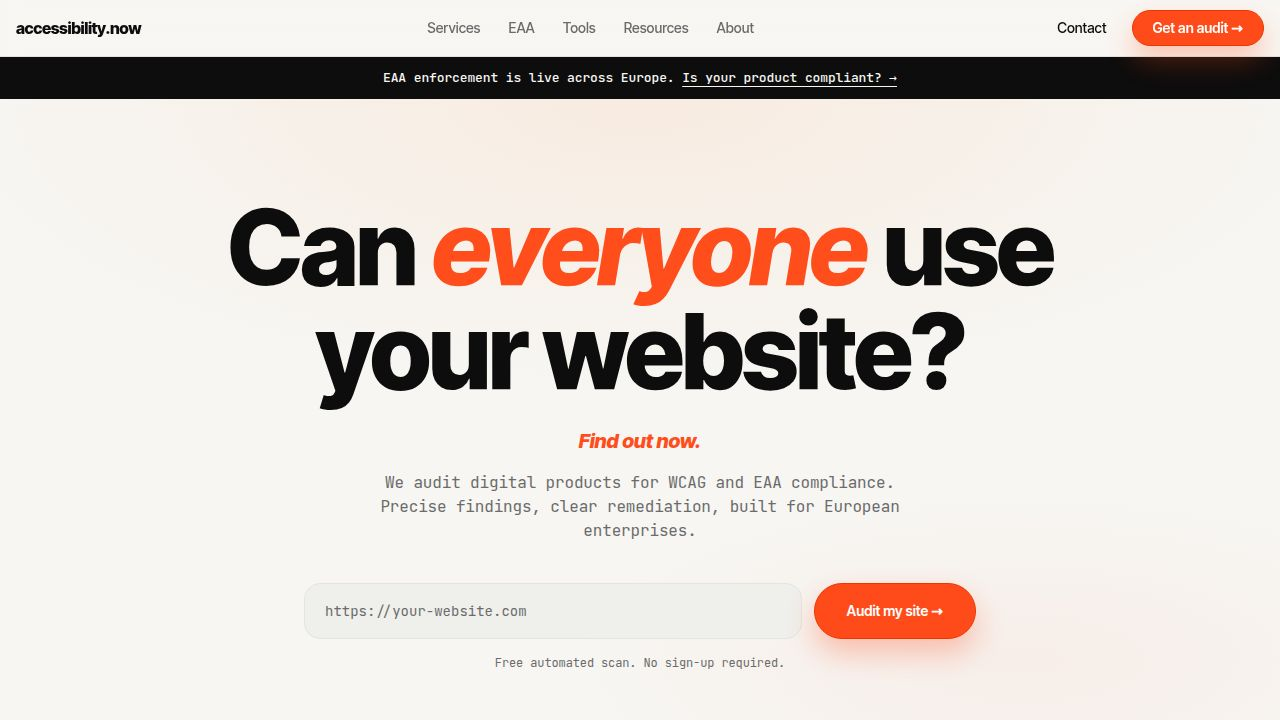
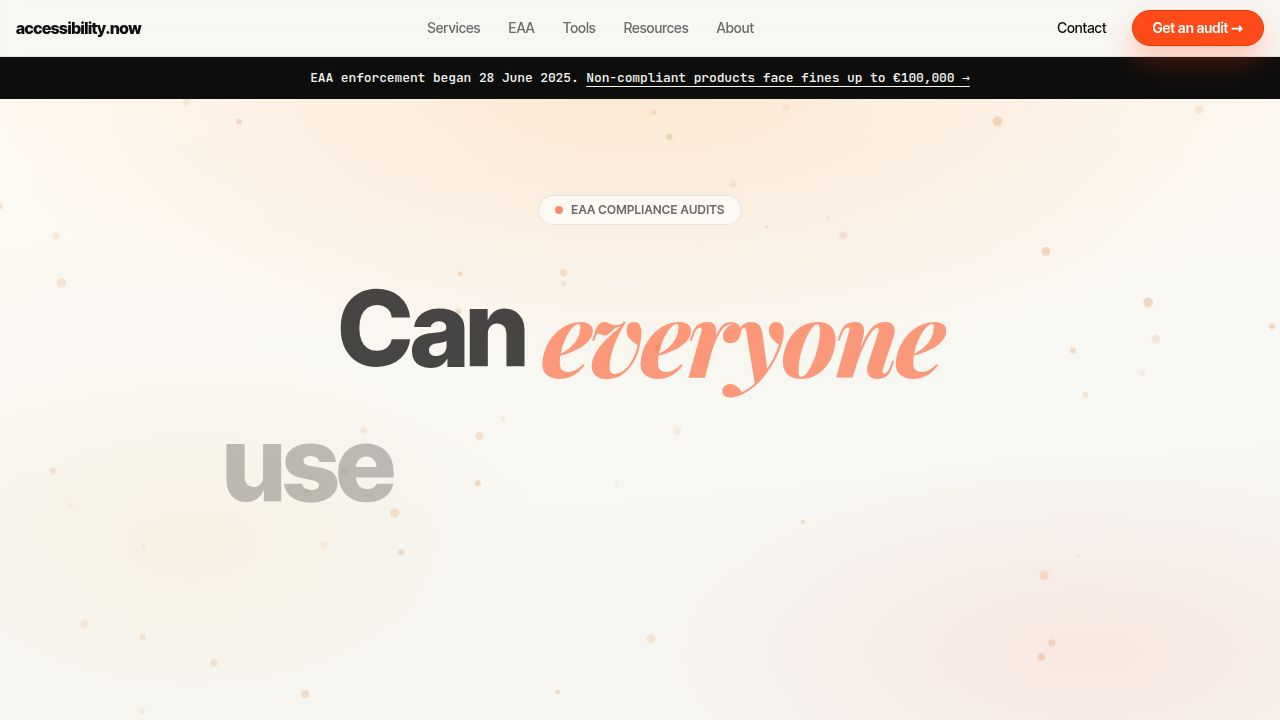
Apply animated design language to service detail pages (Task #17)
Applied the same GSAP animation pattern used on top-level pages (Home, About,
Services index, EAA, Contact) to the three service detail sub-pages:
- artifacts/accessibility-now/src/pages/services/audits.tsx
- artifacts/accessibility-now/src/pages/services/remediation.tsx
- artifacts/accessibility-now/src/pages/services/monitoring.tsx

Changes per page:
- Added imports: useEffect, useRef (React), gsap, useSectionReveal hook
- Created three useSectionReveal refs (heroRef, contentRef, ctaRef) — the
  content section ref uses { staggerSelector: ".reveal-child" }
- Added pageRef + useEffect for GSAP btn-gsap button hover scale animations
- Changed middle content section background from bg-white to warm-section
- Added reveal-child class to each grid card so they stagger-animate in on scroll
- Added reveal-body class to hero paragraphs for fade-up animation
- Added btn-gsap class to CTA buttons for hover scale effect
- Attached refs to all three section elements

No deviations from the task. All pages now match the design language of
top-level pages: hero-gradient backgrounds, heading-accent Playfair Display
italic spans, warm-section middle sections, and useSectionReveal ScrollTrigger
hooks on every section.

Replit-Task-Id: 18267751-8e65-40e4-8267-87cdaa64f6e3

diff --git a/artifacts/accessibility-now/src/pages/services/audits.tsx b/artifacts/accessibility-now/src/pages/services/audits.tsx
@@ -1,6 +1,9 @@
+import { useEffect, useRef } from "react";
+import gsap from "gsap";
 import { Link } from "wouter";
 import { Button } from "@/components/ui/button";
 import { CheckCircle2 } from "lucide-react";
+import { useSectionReveal } from "@/hooks/use-section-reveal";
 
 const included = [
   {
@@ -30,29 +33,49 @@ const included = [
 ];
 
 export default function Audits() {
+  const heroRef = useSectionReveal<HTMLElement>();
+  const includedRef = useSectionReveal<HTMLElement>({ staggerSelector: ".reveal-child" });
+  const ctaRef = useSectionReveal<HTMLElement>();
+  const pageRef = useRef<HTMLDivElement>(null);
+
+  useEffect(() => {
+    const el = pageRef.current;
+    if (!el) return;
+    const buttons = el.querySelectorAll<HTMLElement>(".btn-gsap");
+    const cleanups: (() => void)[] = [];
+    buttons.forEach((btn) => {
+      const enter = () => gsap.to(btn, { scale: 1.04, duration: 0.18, ease: "power2.out" });
+      const leave = () => gsap.to(btn, { scale: 1, duration: 0.18, ease: "power2.out" });
+      btn.addEventListener("mouseenter", enter);
+      btn.addEventListener("mouseleave", leave);
+      cleanups.push(() => { btn.removeEventListener("mouseenter", enter); btn.removeEventListener("mouseleave", leave); });
+    });
+    return () => cleanups.forEach((fn) => fn());
+  }, []);
+
   return (
-    <div className="flex flex-col w-full">
-      <section className="hero-gradient pt-24 pb-20 px-4">
+    <div ref={pageRef} className="flex flex-col w-full">
+      <section ref={heroRef} className="hero-gradient pt-24 pb-20 px-4">
         <div className="container mx-auto max-w-4xl">
           <h1 className="text-display font-extrabold tracking-tight mb-6">
             Find every<br />
             <span className="heading-accent">violation.</span>
           </h1>
-          <p className="text-muted-foreground text-base max-w-xl">
+          <p className="text-muted-foreground text-base max-w-xl reveal-body">
             Automated scanning combined with rigorous manual WCAG 2.1/2.2 AA testing by
             accessibility engineers using real screen readers and keyboard-only navigation.
           </p>
         </div>
       </section>
 
-      <section className="py-20 px-4 bg-white">
+      <section ref={includedRef} className="py-20 px-4 warm-section">
         <div className="container mx-auto max-w-4xl">
           <h2 className="text-display-md font-extrabold mb-10">
             What's <span className="heading-accent">included.</span>
           </h2>
           <div className="grid grid-cols-1 md:grid-cols-2 gap-4">
             {included.map(({ title, body }) => (
-              <div key={title} className="flex items-start gap-4 p-5 rounded-xl border bg-background">
+              <div key={title} className="reveal-child flex items-start gap-4 p-5 rounded-xl border bg-background">
                 <CheckCircle2 className="w-5 h-5 text-primary mt-0.5 shrink-0" />
                 <div>
                   <h3 className="font-bold text-sm font-sans mb-1">{title}</h3>
@@ -64,20 +87,20 @@ export default function Audits() {
         </div>
       </section>
 
-      <section className="py-24 px-4 hero-gradient text-center">
+      <section ref={ctaRef} className="py-24 px-4 hero-gradient text-center">
         <div className="container mx-auto max-w-2xl">
           <h2 className="text-display-md font-extrabold mb-5">
             Ready to uncover your<br />
             <span className="heading-accent">accessibility gaps?</span>
           </h2>
-          <p className="text-muted-foreground mb-10">
+          <p className="text-muted-foreground mb-10 reveal-body">
             Start with a free automated scan, then escalate to a full manual audit for legal sign-off.
           </p>
           <div className="flex flex-wrap justify-center gap-3">
-            <Button asChild className="h-12 px-8 text-sm font-semibold">
+            <Button asChild className="btn-gsap h-12 px-8 text-sm font-semibold">
               <Link href="/contact">Get your audit</Link>
             </Button>
-            <Button asChild variant="outline" className="h-12 px-8 text-sm [box-shadow:none]">
+            <Button asChild variant="outline" className="btn-gsap h-12 px-8 text-sm [box-shadow:none]">
               <Link href="/">Free site scan →</Link>
             </Button>
           </div>

diff --git a/artifacts/accessibility-now/src/pages/services/monitoring.tsx b/artifacts/accessibility-now/src/pages/services/monitoring.tsx
@@ -1,6 +1,9 @@
+import { useEffect, useRef } from "react";
+import gsap from "gsap";
 import { Link } from "wouter";
 import { Button } from "@/components/ui/button";
 import { CheckCircle2 } from "lucide-react";
+import { useSectionReveal } from "@/hooks/use-section-reveal";
 
 const benefits = [
   {
@@ -22,29 +25,49 @@ const benefits = [
 ];
 
 export default function Monitoring() {
+  const heroRef = useSectionReveal<HTMLElement>();
+  const benefitsRef = useSectionReveal<HTMLElement>({ staggerSelector: ".reveal-child" });
+  const ctaRef = useSectionReveal<HTMLElement>();
+  const pageRef = useRef<HTMLDivElement>(null);
+
+  useEffect(() => {
+    const el = pageRef.current;
+    if (!el) return;
+    const buttons = el.querySelectorAll<HTMLElement>(".btn-gsap");
+    const cleanups: (() => void)[] = [];
+    buttons.forEach((btn) => {
+      const enter = () => gsap.to(btn, { scale: 1.04, duration: 0.18, ease: "power2.out" });
+      const leave = () => gsap.to(btn, { scale: 1, duration: 0.18, ease: "power2.out" });
+      btn.addEventListener("mouseenter", enter);
+      btn.addEventListener("mouseleave", leave);
+      cleanups.push(() => { btn.removeEventListener("mouseenter", enter); btn.removeEventListener("mouseleave", leave); });
+    });
+    return () => cleanups.forEach((fn) => fn());
+  }, []);
+
   return (
-    <div className="flex flex-col w-full">
-      <section className="hero-gradient pt-24 pb-20 px-4">
+    <div ref={pageRef} className="flex flex-col w-full">
+      <section ref={heroRef} className="hero-gradient pt-24 pb-20 px-4">
         <div className="container mx-auto max-w-4xl">
           <h1 className="text-display font-extrabold tracking-tight mb-6">
             Stay compliant<br />
             <span className="heading-accent">as you ship.</span>
           </h1>
-          <p className="text-muted-foreground text-base max-w-xl">
+          <p className="text-muted-foreground text-base max-w-xl reveal-body">
             Accessibility is a continuous process. We ensure your application remains compliant
             with every new feature — automated re-scans, regression alerts, and a compliance dashboard.
           </p>
         </div>
       </section>
 
-      <section className="py-20 px-4 bg-white">
+      <section ref={benefitsRef} className="py-20 px-4 warm-section">
         <div className="container mx-auto max-w-4xl">
           <h2 className="text-display-md font-extrabold mb-10">
             Retainer <span className="heading-accent">benefits.</span>
           </h2>
           <div className="grid grid-cols-1 md:grid-cols-2 gap-4">
             {benefits.map(({ title, body }) => (
-              <div key={title} className="flex items-start gap-4 p-5 rounded-xl border bg-background">
+              <div key={title} className="reveal-child flex items-start gap-4 p-5 rounded-xl border bg-background">
                 <CheckCircle2 className="w-5 h-5 text-primary mt-0.5 shrink-0" />
                 <div>
                   <h3 className="font-bold text-sm font-sans mb-1">{title}</h3>
@@ -56,16 +79,16 @@ export default function Monitoring() {
         </div>
       </section>
 
-      <section className="py-24 px-4 hero-gradient text-center">
+      <section ref={ctaRef} className="py-24 px-4 hero-gradient text-center">
         <div className="container mx-auto max-w-2xl">
           <h2 className="text-display-md font-extrabold mb-5">
             Protect your<br />
             <span className="heading-accent">compliance investment.</span>
           </h2>
-          <p className="text-muted-foreground mb-10">
+          <p className="text-muted-foreground mb-10 reveal-body">
             One regression can undo months of work. A monitoring retainer keeps you continuously covered.
           </p>
-          <Button asChild className="h-12 px-8 text-sm font-bold">
+          <Button asChild className="btn-gsap h-12 px-8 text-sm font-bold">
             <Link href="/contact">Start a retainer</Link>
           </Button>
         </div>

diff --git a/artifacts/accessibility-now/src/pages/services/remediation.tsx b/artifacts/accessibility-now/src/pages/services/remediation.tsx
@@ -1,6 +1,9 @@
+import { useEffect, useRef } from "react";
+import gsap from "gsap";
 import { Link } from "wouter";
 import { Button } from "@/components/ui/button";
 import { CheckCircle2 } from "lucide-react";
+import { useSectionReveal } from "@/hooks/use-section-reveal";
 
 const howWeWork = [
   {
@@ -22,29 +25,49 @@ const howWeWork = [
 ];
 
 export default function Remediation() {
+  const heroRef = useSectionReveal<HTMLElement>();
+  const howWeWorkRef = useSectionReveal<HTMLElement>({ staggerSelector: ".reveal-child" });
+  const ctaRef = useSectionReveal<HTMLElement>();
+  const pageRef = useRef<HTMLDivElement>(null);
+
+  useEffect(() => {
+    const el = pageRef.current;
+    if (!el) return;
+    const buttons = el.querySelectorAll<HTMLElement>(".btn-gsap");
+    const cleanups: (() => void)[] = [];
+    buttons.forEach((btn) => {
+      const enter = () => gsap.to(btn, { scale: 1.04, duration: 0.18, ease: "power2.out" });
+      const leave = () => gsap.to(btn, { scale: 1, duration: 0.18, ease: "power2.out" });
+      btn.addEventListener("mouseenter", enter);
+      btn.addEventListener("mouseleave", leave);
+      cleanups.push(() => { btn.removeEventListener("mouseenter", enter); btn.removeEventListener("mouseleave", leave); });
+    });
+    return () => cleanups.forEach((fn) => fn());
+  }, []);
+
   return (
-    <div className="flex flex-col w-full">
-      <section className="hero-gradient pt-24 pb-20 px-4">
+    <div ref={pageRef} className="flex flex-col w-full">
+      <section ref={heroRef} className="hero-gradient pt-24 pb-20 px-4">
         <div className="container mx-auto max-w-4xl">
           <h1 className="text-display font-extrabold tracking-tight mb-6">
             We don't just report.<br />
             <span className="heading-accent">We fix.</span>
           </h1>
-          <p className="text-muted-foreground text-base max-w-xl">
+          <p className="text-muted-foreground text-base max-w-xl reveal-body">
             Our engineers work alongside your team to implement robust accessibility solutions — PRs,
             annotated code, and sprint-based delivery against your actual backlog.
           </p>
         </div>
       </section>
 
-      <section className="py-20 px-4 bg-white">
+      <section ref={howWeWorkRef} className="py-20 px-4 warm-section">
         <div className="container mx-auto max-w-4xl">
           <h2 className="text-display-md font-extrabold mb-10">
             How we <span className="heading-accent">work.</span>
           </h2>
           <div className="grid grid-cols-1 md:grid-cols-2 gap-4">
             {howWeWork.map(({ title, body }) => (
-              <div key={title} className="flex items-start gap-4 p-5 rounded-xl border bg-background">
+              <div key={title} className="reveal-child flex items-start gap-4 p-5 rounded-xl border bg-background">
                 <CheckCircle2 className="w-5 h-5 text-primary mt-0.5 shrink-0" />
                 <div>
                   <h3 className="font-bold text-sm font-sans mb-1">{title}</h3>
@@ -56,16 +79,16 @@ export default function Remediation() {
         </div>
       </section>
 
-      <section className="py-24 px-4 hero-gradient text-center">
+      <section ref={ctaRef} className="py-24 px-4 hero-gradient text-center">
         <div className="container mx-auto max-w-2xl">
           <h2 className="text-display-md font-extrabold mb-5">
             Need engineering support<br />
             <span className="heading-accent">for compliance?</span>
           </h2>
-          <p className="text-muted-foreground mb-10">
+          <p className="text-muted-foreground mb-10 reveal-body">
             Tell us about your stack and we'll scope a remediation engagement that fits your release cadence.
           </p>
-          <Button asChild className="h-12 px-8 text-sm font-bold">
+          <Button asChild className="btn-gsap h-12 px-8 text-sm font-bold">
             <Link href="/contact">Discuss your roadmap</Link>
           </Button>
         </div>